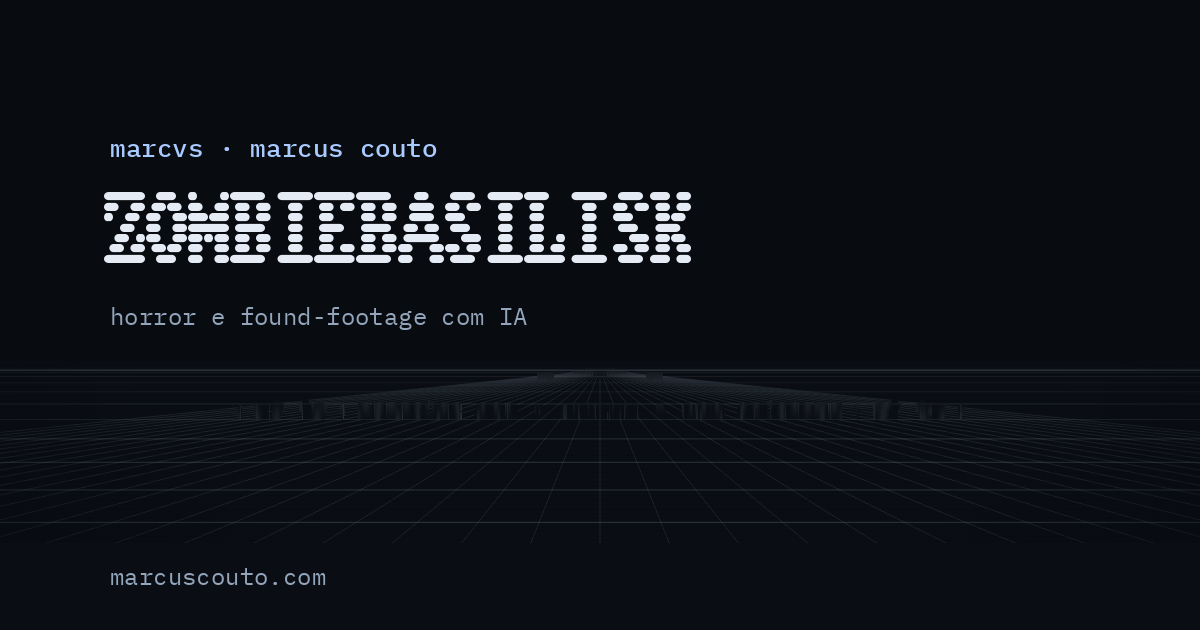
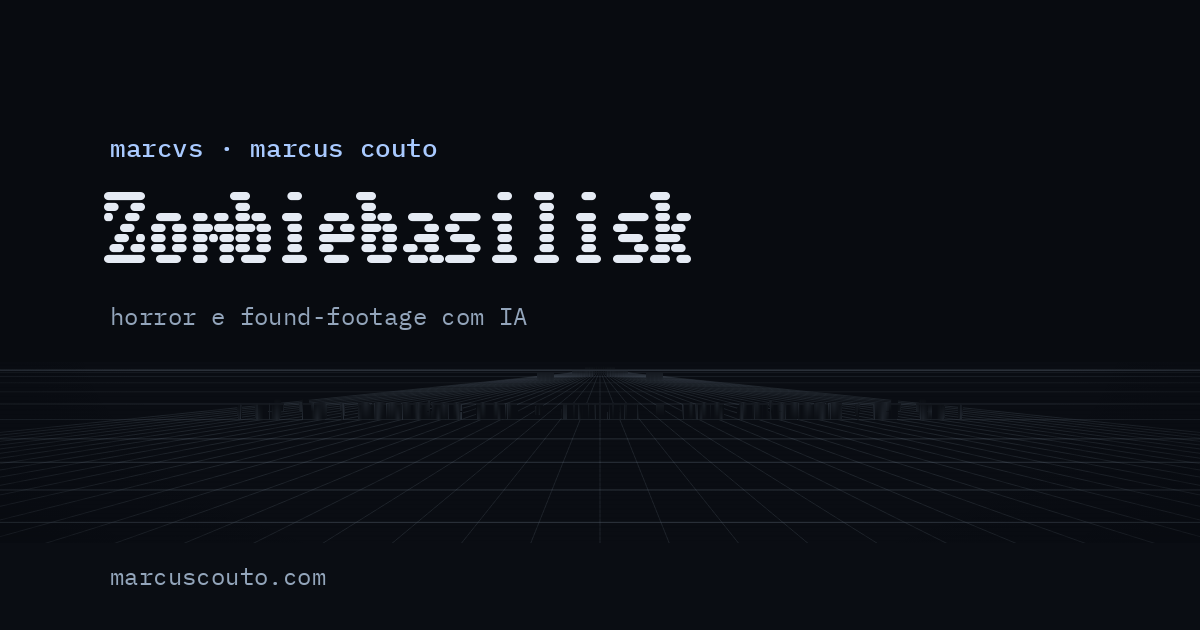
Zombiebasilisk em caixa alta e baixa
Claude-Session: https://claude.ai/code/session_01FrUhFbahMPFfCPa88AS5v2

Changed region(s): [[0.1233, 0.3016, 0.5858, 0.4222]]

diff --git a/projetos/zombiebasilisk/index.html b/projetos/zombiebasilisk/index.html
@@ -3,8 +3,8 @@
 <head>
 <meta charset="utf-8">
 <meta name="viewport" content="width=device-width, initial-scale=1">
-<title>ZOMBIEBASILISK — Marcus Couto</title>
-<meta name="description" content="ZOMBIEBASILISK: horror e found-footage com IA, desde fev/2025. O sistema, os números e os filmes.">
+<title>Zombiebasilisk — Marcus Couto</title>
+<meta name="description" content="Zombiebasilisk: horror e found-footage com IA, desde fev/2025. O sistema, os números e os filmes.">
 <meta name="theme-color" content="#080b10">
 <link rel="canonical" href="https://marcuscouto.com/projetos/zombiebasilisk/">
 <link rel="alternate" hreflang="pt-BR" href="https://marcuscouto.com/projetos/zombiebasilisk/">
@@ -12,8 +12,8 @@
 <meta property="og:locale" content="pt_BR">
 <meta property="og:site_name" content="Marcus Couto">
 <meta property="og:url" content="https://marcuscouto.com/projetos/zombiebasilisk/">
-<meta property="og:title" content="ZOMBIEBASILISK — Marcus Couto">
-<meta property="og:description" content="ZOMBIEBASILISK: horror e found-footage com IA, desde fev/2025. O sistema, os números e os filmes.">
+<meta property="og:title" content="Zombiebasilisk — Marcus Couto">
+<meta property="og:description" content="Zombiebasilisk: horror e found-footage com IA, desde fev/2025. O sistema, os números e os filmes.">
 <meta property="og:image" content="https://marcuscouto.com/assets/img/og/zombiebasilisk.png">
 <meta property="og:image:width" content="1200">
 <meta property="og:image:height" content="630">
@@ -34,7 +34,7 @@
 <script src="/assets/js/layout.js"></script>
 <main id="main">
 <header class="page-head">
-  <div class="title-row"><svg class="sigil sigil-projetos" viewBox="0 0 78 78" aria-hidden="true" focusable="false" fill="currentColor"><rect x="12.75" y="6.75" width="4.5" height="4.5" style="--d:0.00s"/><rect x="18.75" y="6.75" width="4.5" height="4.5" style="--d:0.00s"/><rect x="24.75" y="6.75" width="4.5" height="4.5" style="--d:0.00s"/><rect x="30.75" y="6.75" width="4.5" height="4.5" style="--d:0.00s"/><rect x="36.75" y="6.75" width="4.5" height="4.5" style="--d:0.00s"/><rect x="6.75" y="12.75" width="4.5" height="4.5" style="--d:0.00s"/><rect x="42.75" y="12.75" width="4.5" height="4.5" style="--d:0.00s"/><rect x="6.75" y="18.75" width="4.5" height="4.5" style="--d:0.00s"/><rect x="42.75" y="18.75" width="4.5" height="4.5" style="--d:0.00s"/><rect x="6.75" y="24.75" width="4.5" height="4.5" style="--d:0.00s"/><rect x="42.75" y="24.75" width="4.5" height="4.5" style="--d:0.00s"/><rect x="6.75" y="30.75" width="4.5" height="4.5" style="--d:0.00s"/><rect x="36.75" y="30.75" width="4.5" height="4.5" style="--d:2.40s"/><rect x="42.75" y="30.75" width="4.5" height="4.5" style="--d:0.00s"/><rect x="54.75" y="30.75" width="4.5" height="4.5" style="--d:2.40s"/><rect x="60.75" y="30.75" width="4.5" height="4.5" style="--d:2.40s"/><rect x="6.75" y="36.75" width="4.5" height="4.5" style="--d:0.00s"/><rect x="30.75" y="36.75" width="4.5" height="4.5" style="--d:2.40s"/><rect x="42.75" y="36.75" width="4.5" height="4.5" style="--d:0.00s"/><rect x="66.75" y="36.75" width="4.5" height="4.5" style="--d:2.40s"/><rect x="12.75" y="42.75" width="4.5" height="4.5" style="--d:0.00s"/><rect x="18.75" y="42.75" width="4.5" height="4.5" style="--d:0.00s"/><rect x="24.75" y="42.75" width="4.5" height="4.5" style="--d:0.00s"/><rect x="30.75" y="42.75" width="4.5" height="4.5" style="--d:0.00s"/><rect x="36.75" y="42.75" width="4.5" height="4.5" style="--d:0.00s"/><rect x="66.75" y="42.75" width="4.5" height="4.5" style="--d:2.40s"/><rect x="66.75" y="48.75" width="4.5" height="4.5" style="--d:2.40s"/><rect x="30.75" y="54.75" width="4.5" height="4.5" style="--d:2.40s"/><rect x="66.75" y="54.75" width="4.5" height="4.5" style="--d:2.40s"/><rect x="30.75" y="60.75" width="4.5" height="4.5" style="--d:2.40s"/><rect x="66.75" y="60.75" width="4.5" height="4.5" style="--d:2.40s"/><rect x="36.75" y="66.75" width="4.5" height="4.5" style="--d:2.40s"/><rect x="42.75" y="66.75" width="4.5" height="4.5" style="--d:2.40s"/><rect x="48.75" y="66.75" width="4.5" height="4.5" style="--d:2.40s"/><rect x="54.75" y="66.75" width="4.5" height="4.5" style="--d:2.40s"/><rect x="60.75" y="66.75" width="4.5" height="4.5" style="--d:2.40s"/></svg><h1><span data-glitch="hover">ZOMBIEBASILISK</span></h1></div>
+  <div class="title-row"><svg class="sigil sigil-projetos" viewBox="0 0 78 78" aria-hidden="true" focusable="false" fill="currentColor"><rect x="12.75" y="6.75" width="4.5" height="4.5" style="--d:0.00s"/><rect x="18.75" y="6.75" width="4.5" height="4.5" style="--d:0.00s"/><rect x="24.75" y="6.75" width="4.5" height="4.5" style="--d:0.00s"/><rect x="30.75" y="6.75" width="4.5" height="4.5" style="--d:0.00s"/><rect x="36.75" y="6.75" width="4.5" height="4.5" style="--d:0.00s"/><rect x="6.75" y="12.75" width="4.5" height="4.5" style="--d:0.00s"/><rect x="42.75" y="12.75" width="4.5" height="4.5" style="--d:0.00s"/><rect x="6.75" y="18.75" width="4.5" height="4.5" style="--d:0.00s"/><rect x="42.75" y="18.75" width="4.5" height="4.5" style="--d:0.00s"/><rect x="6.75" y="24.75" width="4.5" height="4.5" style="--d:0.00s"/><rect x="42.75" y="24.75" width="4.5" height="4.5" style="--d:0.00s"/><rect x="6.75" y="30.75" width="4.5" height="4.5" style="--d:0.00s"/><rect x="36.75" y="30.75" width="4.5" height="4.5" style="--d:2.40s"/><rect x="42.75" y="30.75" width="4.5" height="4.5" style="--d:0.00s"/><rect x="54.75" y="30.75" width="4.5" height="4.5" style="--d:2.40s"/><rect x="60.75" y="30.75" width="4.5" height="4.5" style="--d:2.40s"/><rect x="6.75" y="36.75" width="4.5" height="4.5" style="--d:0.00s"/><rect x="30.75" y="36.75" width="4.5" height="4.5" style="--d:2.40s"/><rect x="42.75" y="36.75" width="4.5" height="4.5" style="--d:0.00s"/><rect x="66.75" y="36.75" width="4.5" height="4.5" style="--d:2.40s"/><rect x="12.75" y="42.75" width="4.5" height="4.5" style="--d:0.00s"/><rect x="18.75" y="42.75" width="4.5" height="4.5" style="--d:0.00s"/><rect x="24.75" y="42.75" width="4.5" height="4.5" style="--d:0.00s"/><rect x="30.75" y="42.75" width="4.5" height="4.5" style="--d:0.00s"/><rect x="36.75" y="42.75" width="4.5" height="4.5" style="--d:0.00s"/><rect x="66.75" y="42.75" width="4.5" height="4.5" style="--d:2.40s"/><rect x="66.75" y="48.75" width="4.5" height="4.5" style="--d:2.40s"/><rect x="30.75" y="54.75" width="4.5" height="4.5" style="--d:2.40s"/><rect x="66.75" y="54.75" width="4.5" height="4.5" style="--d:2.40s"/><rect x="30.75" y="60.75" width="4.5" height="4.5" style="--d:2.40s"/><rect x="66.75" y="60.75" width="4.5" height="4.5" style="--d:2.40s"/><rect x="36.75" y="66.75" width="4.5" height="4.5" style="--d:2.40s"/><rect x="42.75" y="66.75" width="4.5" height="4.5" style="--d:2.40s"/><rect x="48.75" y="66.75" width="4.5" height="4.5" style="--d:2.40s"/><rect x="54.75" y="66.75" width="4.5" height="4.5" style="--d:2.40s"/><rect x="60.75" y="66.75" width="4.5" height="4.5" style="--d:2.40s"/></svg><h1><span data-glitch="hover">Zombiebasilisk</span></h1></div>
   <p class="kicker"><em>Horror e found-footage com IA · desde fev/2025 · <a href="https://www.tiktok.com/@zombiebasilisk" target="_blank" rel="noopener">@zombiebasilisk</a></em></p>
   <div class="lead">
     <p>Um canal que produz horror como documento encontrado: imagens que o cérebro não cataloga de imediato, ancoradas em algo familiar. O sistema vai da ideia à publicação: cena, imagem, direção de vídeo, legenda, post.</p>
@@ -58,7 +58,7 @@
 <section class="section" id="filmes" aria-labelledby="h-filmes">
   <h2 class="section-title" id="h-filmes"><span data-glitch="hover">Filmes</span></h2>
   <div class="shelf" id="estante-filmes" aria-busy="true"><p class="shelf-message">Carregando filmes…</p></div>
-  <noscript><p class="shelf-message">Assista aos filmes no <a href="https://www.instagram.com/zombiebasilisk/">Instagram do ZOMBIEBASILISK</a>.</p></noscript>
+  <noscript><p class="shelf-message">Assista aos filmes no <a href="https://www.instagram.com/zombiebasilisk/">Instagram do Zombiebasilisk</a>.</p></noscript>
   <div class="links-row">
     <a class="text-link" href="https://www.tiktok.com/@zombiebasilisk" target="_blank" rel="noopener">TikTok <span aria-hidden="true">↗</span></a>
     <a class="text-link" href="https://www.instagram.com/zombiebasilisk/" target="_blank" rel="noopener">Instagram <span aria-hidden="true">↗</span></a>

diff --git a/sistemas/zombiebasilisk/index.html b/sistemas/zombiebasilisk/index.html
@@ -2,14 +2,14 @@
 <html lang="pt-BR">
 <head>
 <meta charset="utf-8">
-<title>ZOMBIEBASILISK — Marcus Couto</title>
+<title>Zombiebasilisk — Marcus Couto</title>
 <script>location.replace("/projetos/zombiebasilisk/" + location.hash);</script>
 <meta http-equiv="refresh" content="0; url=/projetos/zombiebasilisk/">
 <link rel="canonical" href="https://marcuscouto.com/projetos/zombiebasilisk/">
 <meta name="robots" content="noindex">
 </head>
 <body>
-<p>Esta página mudou para <a href="/projetos/zombiebasilisk/">ZOMBIEBASILISK</a>.</p>
+<p>Esta página mudou para <a href="/projetos/zombiebasilisk/">Zombiebasilisk</a>.</p>
 <script data-goatcounter="https://marcvs.goatcounter.com/count" async src="//gc.zgo.at/count.js"></script>
 </body>
 </html>

diff --git a/index.html b/index.html
@@ -61,7 +61,7 @@
       <p class="sub">prensa autômata · zombiebasilisk · uol</p>
       <ul class="items">
       <li><a href="/projetos/prensa-automata/">Prensa Autômata</a></li>
-      <li><a href="/projetos/zombiebasilisk/">ZOMBIEBASILISK</a></li>
+      <li><a href="/projetos/zombiebasilisk/">Zombiebasilisk</a></li>
       <li><a href="/projetos/uol/">UOL</a></li>
       </ul>
     </div>

diff --git a/README.md b/README.md
@@ -26,7 +26,7 @@ assets/css/arte.css       Arte e Som: bolas, visualizador, coleções, discograf
 assets/js/layout.js       cabeçalho e rodapé de todas as páginas + glitch da marca e dos títulos
 assets/js/ambient.js      pixels ambientes (fundo)
 assets/js/numeros.js      preenche os números a partir de data/numeros.json
-assets/js/filmes.mjs      estante de filmes (ZOMBIEBASILISK)
+assets/js/filmes.mjs      estante de filmes (Zombiebasilisk)
 assets/js/lombada.js      abre a lombada indicada no endereço (/projetos/uol/#archive-of-fame)
 assets/js/pinturas.js     bolas e visualizador das pinturas
 assets/js/som.js          discografia
